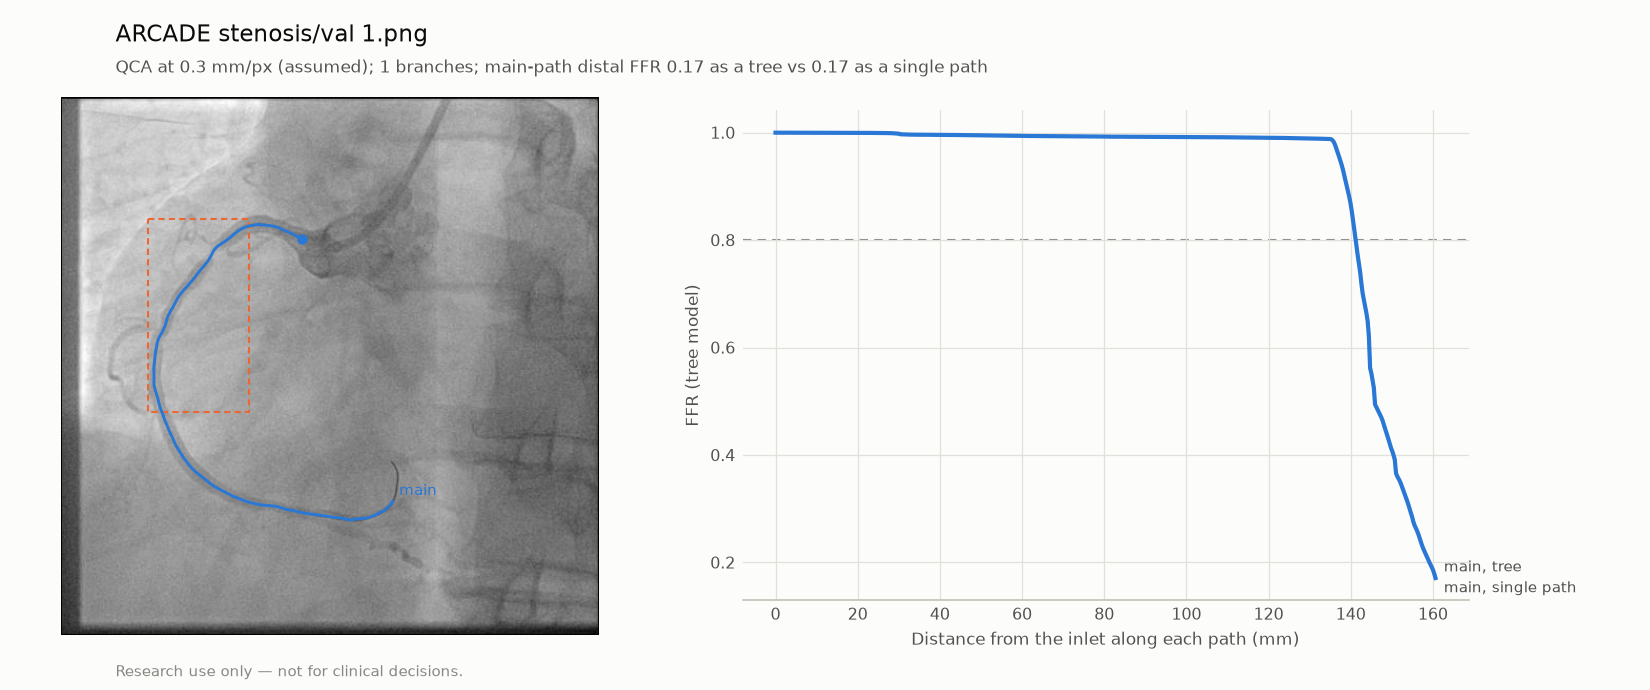
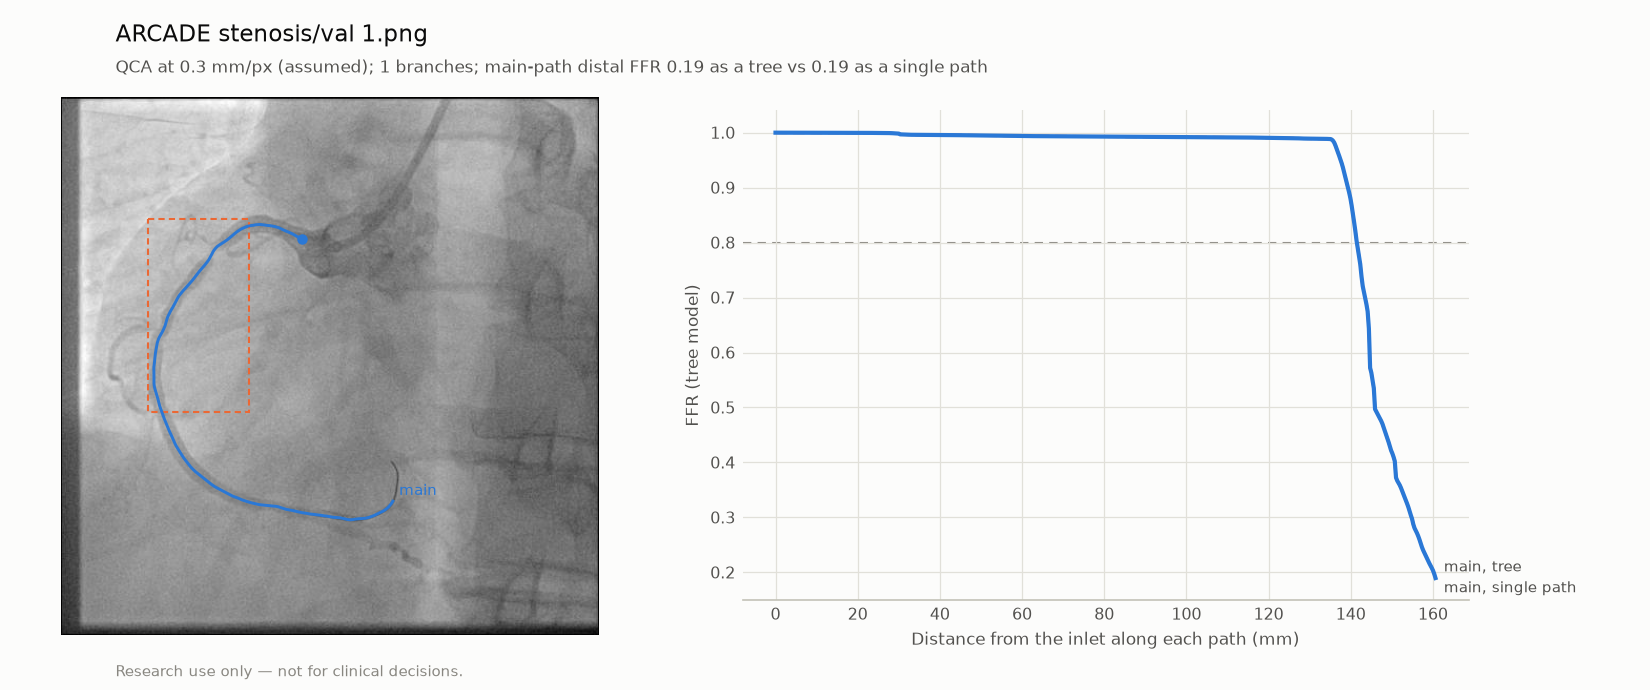
P5b: QCA tree gallery regenerated (scaled lumen default)

diff --git a/reports/qca_tree_gallery.md b/reports/qca_tree_gallery.md
@@ -9,40 +9,40 @@ The images and auto-selected paths of `reports/qca_gallery.md`. The side branche
 **What limits it.** The segmentation model was trained on ARCADE's SYNTAX-segment masks, which leave smaller side branches unannotated. It therefore rarely segments them, so most trees have few side branches and their flow stays in the main path. Lowering the probability threshold does not help: on the first 10 images the skeleton had the same junctions at 0.5, 0.3 and 0.1. The automatic start point (the wider end of the longest path) is not always the ostium. When it is not, the vessel leading to the true inlet becomes a "side branch" and the flow direction is wrong (e.g. val_107). In the app and `vstent analyse` the user sets the start point.
 
 - Analysed: 20 of 20; with at least one side branch: 14 (24 side branches; 13 further side paths too short, too thin or too deep to model).
-- Median change of main-path distal FFR where side branches were found: +0.130.
+- Median change of main-path distal FFR where side branches were found: +0.134.
 - Implausibly low main-path FFR (< 0.30 without a lesion of ≥ 70% DS): 5 as single paths, 4 as trees.
 
 | Image | Main path (mm) | Max DS (%) | Side branches | FFR single path | FFR tree | Change | Inflow reaching the main outlet | Side outlet FFR |
 |---|---|---|---|---|---|---|---|---|
-| [val_1](figures/qca_tree_examples/val_1.png) | 161 | 77 | 0 | 0.17 | 0.17 | +0.00 | 100% | — |
+| [val_1](figures/qca_tree_examples/val_1.png) | 161 | 77 | 0 | 0.19 | 0.19 | +0.00 | 100% | — |
 | [val_10](figures/qca_tree_examples/val_10.png) | 110 | 32 | 1 | 0.06 ⚠ | 0.06 | +0.00 | 62% | 0.46 |
-| [val_100](figures/qca_tree_examples/val_100.png) | 199 | 59 | 1 | 0.59 | 0.67 | +0.08 | 60% | 0.58 |
-| [val_101](figures/qca_tree_examples/val_101.png) | 125 | 59 | 0 | 0.38 | 0.38 | +0.00 | 100% | — |
-| [val_102](figures/qca_tree_examples/val_102.png) | 243 | 56 | 1 | 0.57 | 0.57 | +0.00 | 100% | 0.74 |
-| [val_103](figures/qca_tree_examples/val_103.png) | 162 | 58 | 0 | 0.26 ⚠ | 0.26 | +0.00 | 100% | — |
-| [val_104](figures/qca_tree_examples/val_104.png) | 265 | 52 | 3 | 0.76 | 0.96 | +0.20 | 2% | 0.96, 0.88, 0.96 |
-| [val_105](figures/qca_tree_examples/val_105.png) | 177 | 58 | 0 | 0.69 | 0.69 | +0.00 | 100% | — |
+| [val_100](figures/qca_tree_examples/val_100.png) | 199 | 59 | 1 | 0.62 | 0.69 | +0.08 | 60% | 0.61 |
+| [val_101](figures/qca_tree_examples/val_101.png) | 125 | 59 | 0 | 0.42 | 0.42 | +0.00 | 100% | — |
+| [val_102](figures/qca_tree_examples/val_102.png) | 243 | 56 | 1 | 0.61 | 0.61 | +0.00 | 100% | 0.77 |
+| [val_103](figures/qca_tree_examples/val_103.png) | 162 | 58 | 0 | 0.29 ⚠ | 0.29 | -0.00 | 100% | — |
+| [val_104](figures/qca_tree_examples/val_104.png) | 265 | 52 | 3 | 0.78 | 0.97 | +0.19 | 2% | 0.97, 0.91, 0.97 |
+| [val_105](figures/qca_tree_examples/val_105.png) | 177 | 58 | 0 | 0.72 | 0.72 | +0.00 | 100% | — |
 | [val_106](figures/qca_tree_examples/val_106.png) | 148 | 78 | 1 | 0.24 | 0.33 | +0.08 | 18% | 0.41 |
 | [val_107](figures/qca_tree_examples/val_107.png) | 138 | 85 | 2 | 0.19 | 0.68 | +0.49 | 5% | 0.74, 0.74 |
-| [val_108](figures/qca_tree_examples/val_108.png) | 198 | 67 | 1 | 0.26 ⚠ | 0.43 | +0.17 | 33% | 0.84 |
-| [val_109](figures/qca_tree_examples/val_109.png) | 179 | 50 | 2 | 0.66 | 0.93 | +0.27 | 17% | 0.88, 0.99 |
+| [val_108](figures/qca_tree_examples/val_108.png) | 198 | 67 | 1 | 0.27 ⚠ | 0.45 | +0.17 | 33% | 0.86 |
+| [val_109](figures/qca_tree_examples/val_109.png) | 179 | 50 | 2 | 0.69 | 0.94 | +0.25 | 17% | 0.89, 0.99 |
 | [val_11](figures/qca_tree_examples/val_11.png) | 152 | 39 | 2 | 0.51 | 0.82 | +0.31 | 33% | 0.66, 0.83 |
-| [val_110](figures/qca_tree_examples/val_110.png) | 68 | 56 | 0 | 0.71 | 0.71 | +0.00 | 100% | — |
-| [val_111](figures/qca_tree_examples/val_111.png) | 242 | 70 | 2 | 0.18 ⚠ | 0.28 | +0.09 | 28% | 0.44, 0.55 |
-| [val_112](figures/qca_tree_examples/val_112.png) | 143 | 58 | 1 | 0.49 | 0.55 | +0.06 | 65% | 0.69 |
-| [val_113](figures/qca_tree_examples/val_113.png) | 159 | 67 | 2 | 0.36 | 0.54 | +0.18 | 26% | 0.61, 0.69 |
-| [val_114](figures/qca_tree_examples/val_114.png) | 151 | 42 | 0 | 0.06 ⚠ | 0.06 | +0.00 | 100% | — |
-| [val_115](figures/qca_tree_examples/val_115.png) | 174 | 67 | 1 | 0.32 | 0.37 | +0.04 | 61% | 0.51 |
-| [val_116](figures/qca_tree_examples/val_116.png) | 229 | 50 | 4 | 0.57 | 0.84 | +0.27 | 0% | 0.82, 0.84, 0.84, 0.84 |
+| [val_110](figures/qca_tree_examples/val_110.png) | 68 | 56 | 0 | 0.73 | 0.73 | -0.00 | 100% | — |
+| [val_111](figures/qca_tree_examples/val_111.png) | 242 | 70 | 2 | 0.20 ⚠ | 0.29 | +0.10 | 29% | 0.44, 0.57 |
+| [val_112](figures/qca_tree_examples/val_112.png) | 143 | 58 | 1 | 0.52 | 0.58 | +0.06 | 65% | 0.71 |
+| [val_113](figures/qca_tree_examples/val_113.png) | 159 | 67 | 2 | 0.40 | 0.57 | +0.17 | 27% | 0.64, 0.70 |
+| [val_114](figures/qca_tree_examples/val_114.png) | 151 | 42 | 0 | 0.06 ⚠ | 0.06 | -0.00 | 100% | — |
+| [val_115](figures/qca_tree_examples/val_115.png) | 174 | 67 | 1 | 0.35 | 0.39 | +0.04 | 61% | 0.52 |
+| [val_116](figures/qca_tree_examples/val_116.png) | 229 | 50 | 4 | 0.61 | 0.86 | +0.25 | 0% | 0.84, 0.86, 0.86, 0.86 |
 
 ## Implausibly low single-path FFR, before and after
 
 - val_10: 0.06 → 0.06 with 1 side branch(es); main path 110 mm, max DS 32%.
-- val_103: 0.26 → 0.26 with 0 side branch(es); main path 162 mm, max DS 58%. No side branch was segmented, so the tree cannot change it: the long path tapering into thin distal vessels still carries the full inflow.
-- val_108: 0.26 → 0.43 with 1 side branch(es); main path 198 mm, max DS 67%.
-- val_111: 0.18 → 0.28 with 2 side branch(es); main path 242 mm, max DS 70%.
+- val_103: 0.29 → 0.29 with 0 side branch(es); main path 162 mm, max DS 58%. No side branch was segmented, so the tree cannot change it: the long path tapering into thin distal vessels still carries the full inflow.
+- val_108: 0.27 → 0.45 with 1 side branch(es); main path 198 mm, max DS 67%.
+- val_111: 0.20 → 0.29 with 2 side branch(es); main path 242 mm, max DS 70%.
 - val_114: 0.06 → 0.06 with 0 side branch(es); main path 151 mm, max DS 42%. No side branch was segmented, so the tree cannot change it: the long path tapering into thin distal vessels still carries the full inflow.
 
 ⚠ = implausibly low as a single path. Figures: dotted lines would show a virtual stent (none here); the dashed orange line is the main path as a single vessel.
 
-Segmentation model `models/seg/seg_unet_r34-20261028-141743`. Commit `cf0f038bdc64b763ba7c7ac51d56ef1b1fd4df5b` (dirty: False), 2026-10-31T20:37:21+00:00.
+Segmentation model `models/seg/seg_unet_r34-20261028-141743`. Commit `6e7da69cf224e1fe2806b5e78714c0cfe491f105` (dirty: False), 2026-11-01T16:56:14+00:00.
